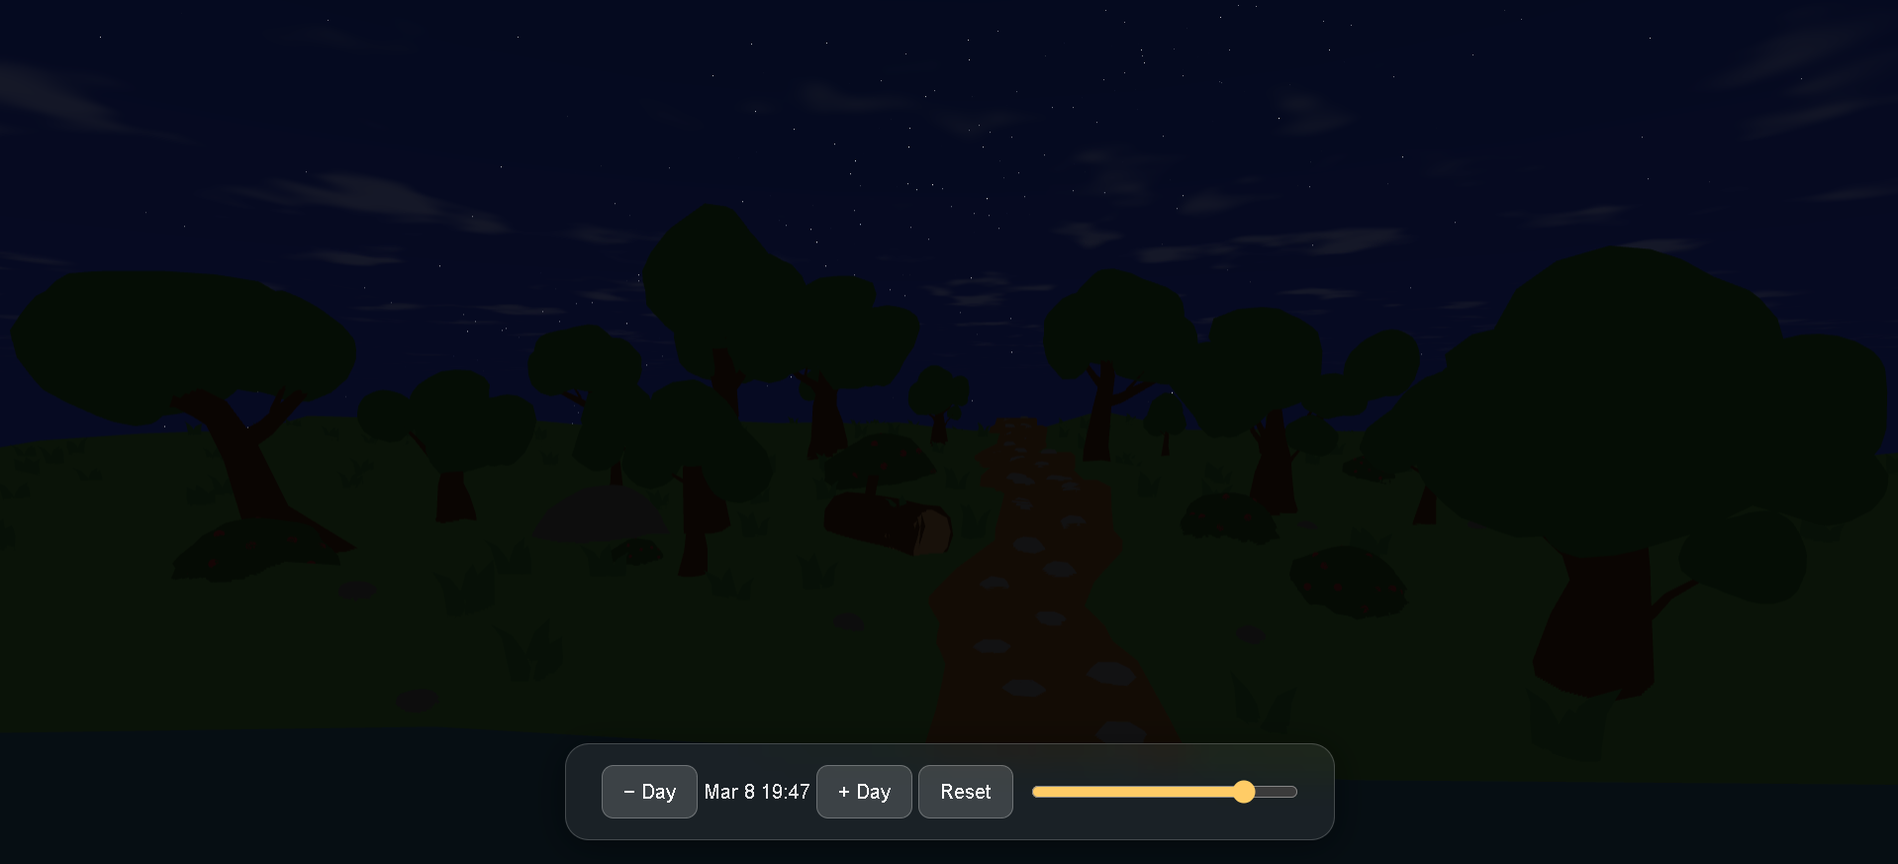
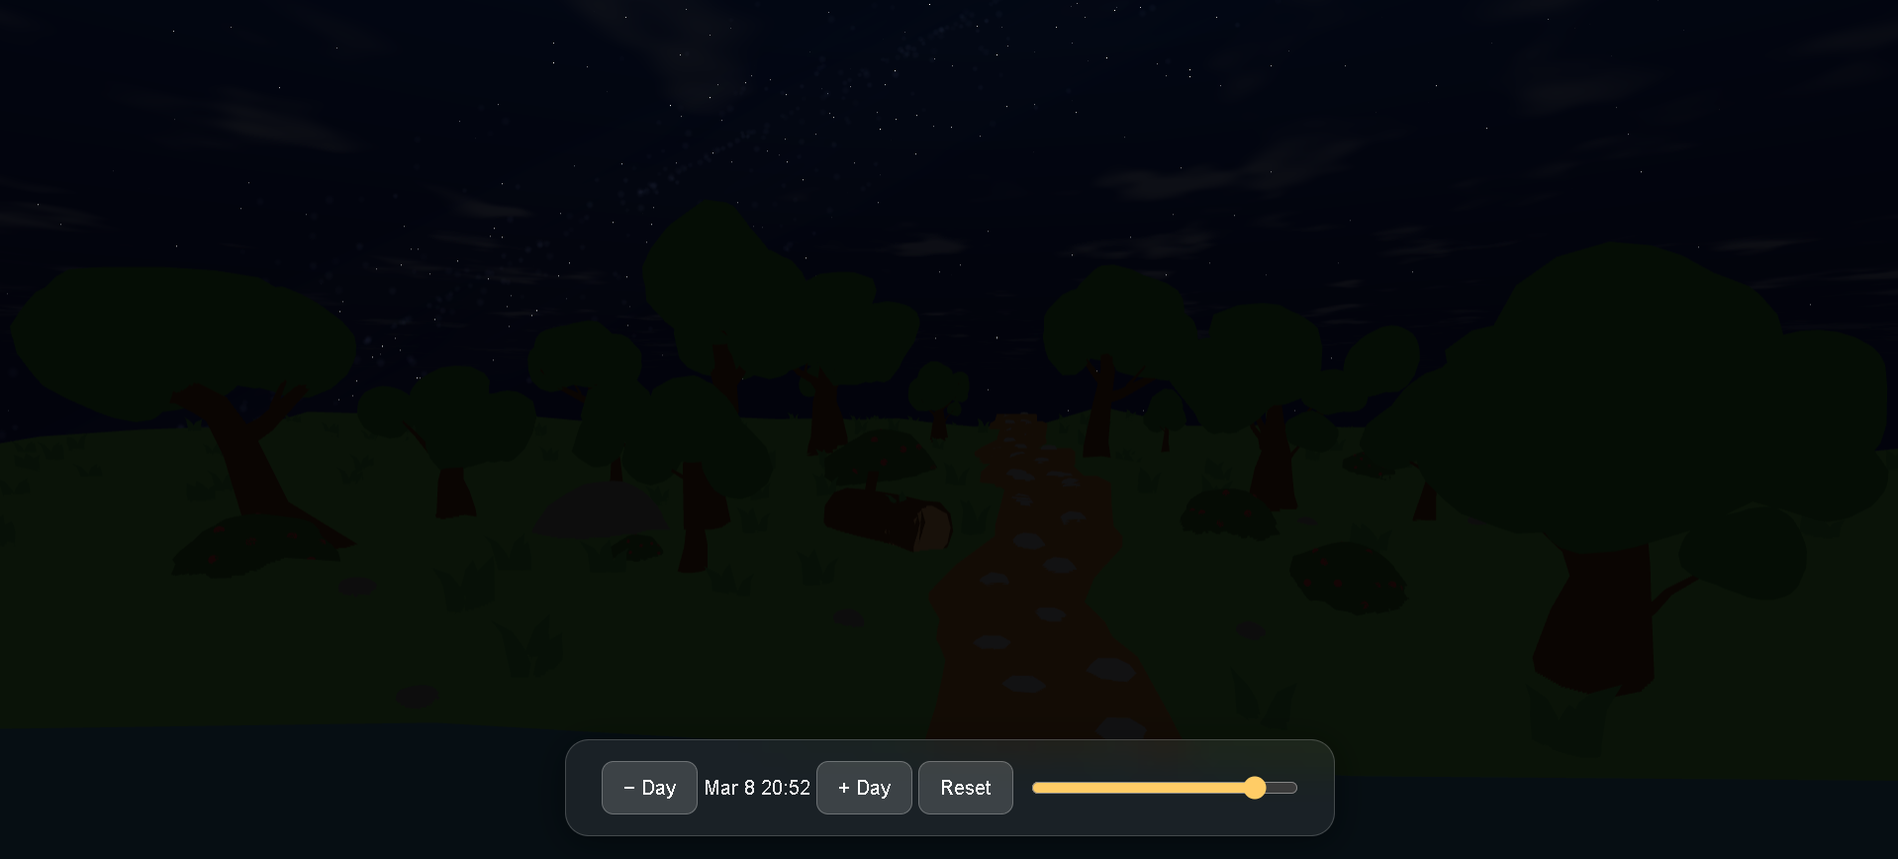
Link nebula visibility to sky darkness, update night screenshot, update README

diff --git a/script.js b/script.js
@@ -154,6 +154,7 @@ const skyDomeMat = new THREE.ShaderMaterial({
   `
 });
 const skyDome = new THREE.Mesh(skyDomeGeo, skyDomeMat);
+skyDome.renderOrder = 0;
 scene.add(skyDome);
 
 // Sky background colour constants — blended each frame based on sun altitude
@@ -355,38 +356,55 @@ const starMaterial = new THREE.ShaderMaterial({
 });
 
 // ── Milky Way dust / nebula layer ─────────────────────────────────────────────
-// 600 large soft blobs spread around the full galactic band. Blobs near the
-// galactic-core longitude (CORE_THETA) are slightly brighter, simulating the
-// denser central bulge without clustering positions.
+// 2200 overlapping soft blobs spread around the full galactic band. Per-particle
+// size variation breaks up uniformity so the band looks like natural cloud
+// structure rather than a grid of identical dots.
 const dustPositions  = [];
 const dustOpacities  = [];
+const dustSizes      = [];
 
-for (let i = 0; i < 600; i++) {
-  const theta = Math.random() * Math.PI * 2;
-  const bandY = (Math.random() - 0.5) * starDistance * 0.28;
-  const r     = Math.sqrt(Math.max(0, starDistance * starDistance - bandY * bandY));
-  dustPositions.push(r * Math.cos(theta), bandY, r * Math.sin(theta));
+for (let i = 0; i < 2200; i++) {
+  // phi: full azimuth — particles wrap all the way around the sky dome
+  const phi = Math.random() * Math.PI * 2;
+  // elev: elevation angle from the galactic plane.
+  // Cubic falloff (t^3) concentrates >90% of particles within ±0.05 rad of
+  // the plane, with a long but sparse tail out to ±0.15 rad — forming a thin
+  // bright core with soft diffuse edges, not a uniform cloud.
+  const t    = (Math.random() - 0.5) * 2.0;  // uniform [-1, 1]
+  const elev = t * t * t * 0.15;              // cubic → max ±0.15 rad (≈±8.6°)
+
+  dustPositions.push(
+    starDistance * Math.cos(elev) * Math.cos(phi),
+    starDistance * Math.sin(elev),
+    starDistance * Math.cos(elev) * Math.sin(phi)
+  );
   // Smooth opacity boost near the galactic core longitude
-  const dTheta    = Math.abs(((theta - CORE_THETA + Math.PI * 3) % (Math.PI * 2)) - Math.PI);
-  const corePulse = Math.max(0, Math.cos(Math.min(dTheta / 1.2, Math.PI * 0.5)));
-  dustOpacities.push(0.09 + Math.random() * 0.05 + corePulse * 0.10);
+  const dPhi     = Math.abs(((phi - CORE_THETA + Math.PI * 3) % (Math.PI * 2)) - Math.PI);
+  const corePulse = Math.max(0, Math.cos(Math.min(dPhi / 1.2, Math.PI * 0.5)));
+  const variation = 0.5 + Math.random() * 0.5;  // 0.5–1.0× brightness modulation
+  dustOpacities.push((0.02 + Math.random() * 0.02 + corePulse * 0.01) * variation);
+  // Size variation: 0.7–1.3× base so blobs differ visually
+  dustSizes.push(1800.0 * (0.7 + Math.random() * 0.6));
 }
 
 const dustGeometry = new THREE.BufferGeometry();
 dustGeometry.setAttribute('position',    new THREE.Float32BufferAttribute(dustPositions, 3));
 dustGeometry.setAttribute('dustOpacity', new THREE.Float32BufferAttribute(dustOpacities, 1));
+dustGeometry.setAttribute('dustSize',    new THREE.Float32BufferAttribute(dustSizes,     1));
 
 const dustMaterial = new THREE.ShaderMaterial({
   transparent: true,
   depthWrite: false,
+  blending: THREE.AdditiveBlending,
   uniforms: { starVisibility: { value: 0 } },
   vertexShader: `
     attribute float dustOpacity;
+    attribute float dustSize;
     varying float vDustOpacity;
     void main() {
       vDustOpacity = dustOpacity;
       vec4 mvPosition = modelViewMatrix * vec4(position, 1.0);
-      gl_PointSize = 160.0 * (300.0 / -mvPosition.z);
+      gl_PointSize = dustSize * (300.0 / -mvPosition.z);
       gl_Position = projectionMatrix * mvPosition;
     }
   `,
@@ -394,8 +412,8 @@ const dustMaterial = new THREE.ShaderMaterial({
     uniform float starVisibility;
     varying float vDustOpacity;
     void main() {
-      float d = length(gl_PointCoord - vec2(0.5)) * 2.0;
-      float alpha = (1.0 - smoothstep(0.0, 1.0, d)) * vDustOpacity * starVisibility;
+      float d = length(gl_PointCoord - vec2(0.5));
+      float alpha = smoothstep(0.55, 0.10, d) * vDustOpacity * starVisibility;
       gl_FragColor = vec4(0.70, 0.76, 1.0, alpha);
     }
   `
@@ -403,6 +421,74 @@ const dustMaterial = new THREE.ShaderMaterial({
 
 const starGroup = new THREE.Group();
 starGroup.rotation.z = 0.6; // tilt so Milky Way band runs diagonally across sky
+starGroup.renderOrder = 1;
+
+// ── Galactic haze mesh ────────────────────────────────────────────────────────
+// A large sphere slightly inside the star sphere whose fragment shader generates
+// FBM noise concentrated around the equatorial plane (y ≈ 0 in local space).
+// This provides the continuous soft-glow background that individual particles
+// cannot produce on their own. Additive blending keeps it purely additive.
+const hazeMaterial = new THREE.ShaderMaterial({
+  transparent: true,
+  depthWrite: false,
+  side: THREE.BackSide,
+  blending: THREE.AdditiveBlending,
+  uniforms: { starVisibility: { value: 0 } },
+  vertexShader: `
+    varying vec3 vLocalPos;
+    void main() {
+      vLocalPos   = position;
+      gl_Position = projectionMatrix * modelViewMatrix * vec4(position, 1.0);
+    }
+  `,
+  fragmentShader: `
+    uniform float starVisibility;
+    varying vec3 vLocalPos;
+
+    // Cheap 2-D hash for FBM noise
+    float hash(vec2 p) {
+      p = fract(p * vec2(127.1, 311.7));
+      p += dot(p, p + 17.5);
+      return fract(p.x * p.y);
+    }
+    float noise(vec2 p) {
+      vec2 i = floor(p);
+      vec2 f = fract(p);
+      vec2 u = f * f * (3.0 - 2.0 * f);
+      return mix(mix(hash(i),          hash(i + vec2(1,0)), u.x),
+                 mix(hash(i + vec2(0,1)), hash(i + vec2(1,1)), u.x), u.y);
+    }
+    float fbm(vec2 p) {
+      float v = 0.0, a = 0.5;
+      for (int i = 0; i < 4; i++) {
+        v += a * noise(p);
+        p *= 2.1;
+        a *= 0.5;
+      }
+      return v;
+    }
+
+    void main() {
+      vec3 dir = normalize(vLocalPos);
+      // Galactic latitude — dir.y is elevation from the equatorial plane
+      float lat  = abs(dir.y);
+      // Sharp Gaussian band: only visible within ±0.18 rad of plane
+      float band = exp(-lat * lat * 120.0);
+      // FBM noise on azimuth × patchy vertical offset
+      vec2 uv    = vec2(atan(dir.z, dir.x) * 0.8, dir.y * 6.0);
+      float haze = fbm(uv * 2.5) * fbm(uv * 0.9 + 1.7);
+      float alpha = band * haze * 0.045 * starVisibility;
+      gl_FragColor = vec4(0.68, 0.74, 1.0, alpha);
+    }
+  `
+});
+const hazeSphere = new THREE.Mesh(
+  new THREE.SphereGeometry(starDistance * 0.97, 48, 24),
+  hazeMaterial
+);
+starGroup.add(hazeSphere);              // rendered before dust and star points
+// ─────────────────────────────────────────────────────────────────────────────
+
 starGroup.add(new THREE.Points(dustGeometry,  dustMaterial));  // dust behind stars
 starGroup.add(new THREE.Points(starGeometry,  starMaterial));
 scene.add(starGroup);
@@ -518,8 +604,10 @@ function updateSunPosition(lat, lon, date = new Date()) {
 
   // Stars fade in during twilight (-6° to -14°)
   const starVis = THREE.MathUtils.clamp((-altitude - 0.1) / 0.15, 0, 1);
+  const nebulaVisibility = Math.pow(starVis, 1.5);
   starMaterial.uniforms.starVisibility.value = starVis;
-  dustMaterial.uniforms.starVisibility.value = starVis;
+  dustMaterial.uniforms.starVisibility.value  = nebulaVisibility;
+  hazeMaterial.uniforms.starVisibility.value  = nebulaVisibility;
 
   // Star rotation tied to simulation hours; cloud offset also driven by sim hours
   const hours = date.getHours() + date.getMinutes() / 60 + date.getSeconds() / 3600;

diff --git a/README.md b/README.md
@@ -1,12 +1,22 @@
 # Lowpoly Time Sync Environment
 
-A real-time low-poly 3D environment built with **Three.js** where sky lighting, sun and moon positions, moon phases, stars, and procedural clouds all synchronize with the user's actual geographic location and time of day.
+A real-time low-poly 3D environment built with **Three.js** where sky lighting, sun and moon positions, moon phases, stars, the Milky Way, and procedural clouds all synchronize with the user's actual geographic location and time of day.
 
 ---
 
 ## What This Project Does
 
-This website recreates the sky as it actually appears at your real-world location and time of day. It uses astronomy calculations to find the true position of the sun and moon in the sky, then renders lighting that transitions naturally between dawn, noon, dusk, and night. The moon displays its correct phase based on the current date. A time slider at the bottom of the screen lets you scrub to any hour of the day, jump forward or backward by a day, or reset to the current real-world time.
+This website recreates the sky as it actually appears at your real-world location and time of day. It uses astronomy calculations to find the true position of the sun and moon in the sky, then renders lighting that transitions naturally between dawn, noon, dusk, and night. The moon displays its correct phase based on the current date. A full three-layer Milky Way (star points, dust blobs, and a galactic haze sphere) fades in during twilight synchronized to sky darkness. A time slider at the bottom of the screen lets you scrub to any hour of the day, jump forward or backward by a day, or reset to the current real-world time.
+
+---
+
+## Key Highlights
+
+- Real astronomical sun and moon positioning
+- Real-time sky lighting synced to user location
+- Procedural Milky Way with stars, dust, and haze layers
+- GLSL shaders for moon phases, sky gradients, and clouds
+- Time-scrubbing UI to explore different times of day
 
 ---
 
@@ -43,8 +53,8 @@ Load the page and the scene immediately reflects your current time and location:
 
 - The sun rises and sets along the correct solar path for the user's location and date
 - The sky transitions through day, sunset, twilight, and night palettes
-- Stars appear at dusk, including a denser Milky Way band across the sky
-- The moon renders with its correct current phase
+- Stars and a three-layer Milky Way appear during twilight, fading in smoothly with sky darkness
+- The moon renders with its correct current phase and fades at the horizon
 - Procedural clouds drift slowly across the sky dome
 
 Use the time slider at the bottom to scrub through any hour of the day, or step through days to watch moon phases and seasonal sun angles change.
@@ -56,15 +66,19 @@ Use the time slider at the bottom to scrub through any hour of the day, or step 
 | Feature | Description |
 |---|---|
 | **Real sun positioning** | SunCalc computes altitude and azimuth from GPS coordinates and the current date/time |
-| **Real moon positioning** | Moon positioned using real astronomical position data from SunCalc, ensuring correct relative placement in the sky |
-| **Moon phases** | Per-pixel Lambertian shader driven by the real sun–moon angle; crescent, gibbous, and full moon all render correctly |
-| **Dynamic sky colours** | Four-stage altitude blend: day → sunset → twilight → night |
-| **Sky gradient dome** | Inverted sphere with a zenith/horizon GLSL gradient |
-| **Procedural clouds** | 3-octave FBM value noise rendered in the sky dome fragment shader; drift tied to simulation time |
-| **Star field** | 18 000 candidates on a sphere; Gaussian band density bias (~4× denser along galactic plane), per-star colour tinting (blue/purple in band, warm near galactic core), twinkling via ShaderMaterial, plus a 600-point soft dust/nebula layer |
+| **Real moon positioning** | Moon positioned using real astronomical data from SunCalc; fades smoothly at the horizon |
+| **Moon phases** | Per-pixel Lambertian shader driven by the real sun–moon angle; earthshine fills the dark limb; crescent, gibbous, and full moon all render correctly |
+| **Dynamic sky colours** | Four-stage altitude blend: day → sunset → twilight → night, plus a warm horizon glow at sunrise/sunset |
+| **Sky gradient dome** | Inverted sphere (radius 75 000) with a per-frame zenith/horizon GLSL gradient |
+| **Procedural clouds** | 3-octave FBM value noise rendered in the sky dome fragment shader; drift rate tied to simulation hours so the slider visibly moves clouds |
+| **Star field** | Up to ~18 000 stars placed via rejection sampling on a sphere (radius 80 000); Gaussian band density bias (~4× denser along galactic plane); per-star colour tinting (blue/purple in band, warm near galactic core); per-star twinkling via time-driven sinusoid |
+| **Milky Way — dust layer** | 2 200 soft additive blobs with cubic elevation falloff (±8.6°); opacity boosted near galactic-core longitude; per-blob size variation breaks up uniformity |
+| **Milky Way — haze sphere** | Inverted sphere at 97 % of star radius; 4-octave FBM fragment shader concentrated on the galactic equator; provides the continuous soft glow individual particles cannot produce |
+| **Nebula / sky-darkness link** | `nebulaVisibility = pow(starVisibility, 1.5)` — dust and haze fade in more gradually than stars, matching natural sky behaviour |
+| **Adaptive FOV** | Camera field of view widens automatically on portrait / narrow viewports to preserve the scene framing |
 | **Geolocation** | Optional browser geolocation; falls back to Bangalore (12.97° N, 77.59° E) |
-| **Time slider UI** | Glassmorphism panel; slider, ±Day buttons, and Reset |
-| **Auto time advance** | Simulation clock advances 1 minute per real-world minute when the slider is idle |
+| **Time slider UI** | Glassmorphism panel; slider, ±Day buttons, and Reset; responsive layout for mobile |
+| **Auto time advance** | Simulation clock advances 1 minute per real-world minute when the slider is idle; pauses for 10 s after any interaction |
 
 ---
 
@@ -82,11 +96,11 @@ y = sin(altitude)                   // height
 z = cos(altitude) * cos(azimuth)   // north/south
 ```
 
-The sun and moon spheres are placed 50 000 units from the camera along their respective direction vectors, keeping them at a fixed angular size regardless of scene scale.
+The sun and moon spheres are placed 50 000 units from the camera along their respective direction vectors, keeping them at a fixed angular size regardless of scene scale. The moon fades smoothly over the ±0.05 rad window at the horizon using a `uOpacity` uniform.
 
 ### Sky Gradient Shader
 
-An inverted sphere (`THREE.BackSide`) with a custom `ShaderMaterial`. The vertex shader computes `vWorldDir = normalize(modelMatrix * position)`. The fragment shader blends `horizonColor` and `zenithColor` uniforms using `smoothstep(0.0, 0.6, vWorldDir.y)`, producing a natural atmospheric gradient. Both uniforms are updated every frame from the 4-stage sky colour system.
+An inverted sphere (`THREE.BackSide`, radius 75 000) with a custom `ShaderMaterial`. The vertex shader computes `vWorldDir = normalize(modelMatrix * position)`. The fragment shader blends `horizonColor` and `zenithColor` uniforms using `smoothstep(0.0, 0.6, vWorldDir.y)`, producing a natural atmospheric gradient. Both uniforms are updated every frame from the 4-stage sky colour system.
 
 ### 4-Stage Sky Colour System
 
@@ -97,7 +111,7 @@ altitude > -0.3     →  lerp to twilight purple
 altitude ≤ -0.3     →  lerp to deep night navy
 ```
 
-A horizon glow (warm amber) is blended in during the ±0.1 rad window around sunrise/sunset.
+A warm amber horizon glow is blended in during the ±0.1 rad window around sunrise/sunset.
 
 ### Procedural Cloud Shader
 
@@ -105,10 +119,11 @@ Clouds live entirely inside the sky dome fragment shader — no additional geome
 
 ```glsl
 vec2 uv = vWorldDir.xz / (vWorldDir.y + 0.05);
-uv += vec2(time * 0.03, time * 0.015);
+uv *= 2.0;
+uv += vec2(time * 0.3, time * 0.15);
 ```
 
-The `time` uniform is set from `hours * 0.05`, so clouds drift when the slider moves. Cloud colour is white in daylight, warm during sunset, and suppressed at night via a luminance check on `zenithColor`.
+The `time` uniform is `cloudSimOffset + realTime`, where `cloudSimOffset = hours * 5.0`. This means each hour on the slider produces a clearly visible cloud shift. Cloud colour is white in daylight, warm during sunset, and suppressed at night via a luminance check on `zenithColor`.
 
 ### Moon Phase Shader
 
@@ -119,25 +134,53 @@ float brightness = smoothstep(-0.05, 0.25, dot(N, L));
 vec3 finalColor  = moonColor * (brightness + 0.12); // 0.12 = earthshine
 ```
 
-This produces correct crescent, quarter, gibbous, and full moon appearances as the sun–moon angle changes across the synodic month.
+This produces correct crescent, quarter, gibbous, and full moon appearances as the sun–moon angle changes across the synodic month. `SunCalc.getMoonIllumination()` drives the moon glow sprite opacity.
 
 ### Star Field
 
-18 000 candidate positions are distributed uniformly on a sphere. Acceptance probability is biased by a Gaussian function of equatorial distance (σ ≈ 28 % of sphere radius), producing a clearly visible Milky Way band spanning the full sky arc at ~4× background density. Per-star attributes — size, brightness, twinkle phase, and RGB colour tint — are stored as `BufferGeometry` custom attributes and consumed in a `ShaderMaterial` points renderer. Stars in the band shift toward blue/purple; a smooth brightness gradient along the band simulates the brighter galactic-centre region without clustering. A second `Points` layer of 600 large soft-glow blobs forms a diffuse dust/nebula overlay along the same band. All stars and dust fade in during the `-0.1` to `-0.25` rad twilight window.
+Up to 18 000 candidate positions are distributed uniformly on a sphere (radius 80 000) using rejection sampling. Acceptance probability is biased by a Gaussian function of equatorial distance (σ ≈ 28 % of sphere radius), producing a clearly visible Milky Way band at ~4× background density. Per-star attributes — size, brightness, twinkle phase offset, and RGB colour tint — are stored as `BufferGeometry` custom attributes. Stars in the band shift toward blue/purple; a smooth cosine brightness gradient centered on `CORE_THETA = 1.1` simulates the brighter galactic-centre region without clustering stars into a blob.
+
+### Three-Layer Milky Way
+
+The Milky Way is rendered by three additive layers inside a single `starGroup` (tilted `rotation.z = 0.6` rad, rotated in `y` each frame by simulation hour):
+
+1. **Star points** — the `Points` geometry described above; `starVisibility` uniform.
+2. **Dust blobs** — 2 200 `Points` with large `gl_PointSize`; cubic elevation falloff concentrates >90 % of blobs within ±0.05 rad of the galactic plane; opacity peaks near CORE_THETA; uses `nebulaVisibility` uniform.
+3. **Haze sphere** — inverted `SphereGeometry` at `starDistance * 0.97`; fragment shader applies a sharp Gaussian band (`exp(-lat² × 120)`) multiplied by a 4-octave FBM product, giving patchy continuous glow; uses `nebulaVisibility` uniform.
+
+### Nebula / Sky-Darkness Link
+
+All three layers share a `starVisibility` factor derived from sun altitude:
+
+```js
+const starVis       = clamp((-altitude - 0.1) / 0.15, 0, 1);  // 0 at -6°, 1 at -14°
+const nebulaVisibility = Math.pow(starVis, 1.5);
+```
+
+Stars use `starVis` directly. Dust and haze use `nebulaVisibility`, which is always ≤ `starVis`, so the nebula fades in more gradually during early twilight and reaches full brightness at the same moment stars do.
+
+### Lighting
+
+| Light | Type | Purpose |
+|---|---|---|
+| `dirLight` | `DirectionalLight` (white) | Sun; shadow frustum ±20 000 units; intensity × daylight factor |
+| `moonLight` | `DirectionalLight` (0xaaccff) | Night fill; intensity from `sin(moonAltitude) × 0.25` |
+| `ambientLight` | `AmbientLight` (white, 0.15 base) | Prevents fully black shadows |
+| `skyAmbient` | `AmbientLight` (0x87a8c8) | Sky-scattered fill; scales with daylight factor |
 
 ### Time Synchronization
 
-`setInterval` fires every 60 seconds and advances `simulationTime` by one minute, then calls `refreshSun()`. A `userControllingTime` flag suppresses this while the slider is being dragged, and resets automatically 10 seconds after the last interaction.
+`setInterval` fires every 60 seconds and advances `simulationTime` by one minute, then calls `refreshSun()`. A `userControllingTime` flag suppresses auto-advance while the slider is being dragged, and clears automatically 10 seconds after the last interaction.
 
 ---
 
 ## Technologies
 
-- [Three.js r160](https://threejs.org/) — 3D rendering, shaders, shadows
+- [Three.js r160](https://threejs.org/) — 3D rendering, custom shaders, shadow maps
 - [SunCalc 1.9.0](https://github.com/mourner/suncalc) — astronomical sun/moon calculations
 - [GLTFLoader](https://threejs.org/docs/#examples/en/loaders/GLTFLoader) — low-poly scene model
 - Vanilla ES modules — no build step required
-- [Blender](https://www.blender.org/) — all environment assets were modeled and textured manually in Blender and exported as GLB files for efficient rendering on the web
+- [Blender](https://www.blender.org/) — all environment assets modeled, textured, and exported as GLB
 
 ---
 
@@ -153,10 +196,10 @@ git clone https://github.com/pun1th01/lowpoly-time-sync-environment.git
 cd lowpoly-time-sync-environment
 
 # Start a local server
-python -m http.server 8080
+python -m http.server 8000
 
 # Open in browser
-http://localhost:8080
+http://localhost:8000
 ```
 
 > **Why a server?** Three.js ES modules and GLB loading require an HTTP context; opening `index.html` directly via `file://` will not work.
@@ -180,8 +223,8 @@ http://localhost:8080
 ```
 lowpoly-time-sync-environment/
 │
-├── index.html          # Entry point — imports, SunCalc script tag
-├── script.js           # All Three.js scene logic
+├── index.html              # Entry point — ES module imports, SunCalc script tag
+├── script.js               # All Three.js scene logic
 │
 ├── assets/
 │   ├── models/
@@ -193,13 +236,31 @@ lowpoly-time-sync-environment/
 └── .gitignore
 ```
 
+### script.js section map
+
+| Section | Lines (approx.) | Contents |
+|---|---|---|
+| Scene / Renderer / Camera | top | `PerspectiveCamera` with adaptive FOV, `WebGLRenderer` |
+| Global State | — | `simulationTime`, `currentLat/Lon`, `cloudSimOffset` |
+| Lighting | — | Sun dir light, moon fill light, ambient lights |
+| Sky System | — | Sky dome shader (gradient + FBM clouds) |
+| Celestial Bodies | — | Sun/moon spheres, glow sprites, phase shader |
+| Star System | — | Star geometry, dust blobs, galactic haze sphere |
+| Sun / Moon Positioning | — | `updateSunPosition()` — sky colour, star visibility, lighting |
+| Model Loading | — | `loadEnvironmentModel()` via GLTFLoader |
+| Geolocation | — | `initGeolocation()` with Bangalore fallback |
+| Time Control UI | — | `buildTimeUI()` — glassmorphism panel, auto-advance |
+| Animation Loop | — | `animate()` — dome tracking, uniform updates |
+| Window Resize | — | Adaptive FOV + renderer resize |
+| Startup | — | `loadEnvironmentModel`, `initGeolocation`, `buildTimeUI`, `animate` |
+
 ---
 
 ## Future Improvements
 
-- [x] Mobile support — responsive layout and touch-friendly slider controls for phones and tablets
+- [x] Mobile support — responsive layout and touch-friendly slider controls
 - [ ] Physically-based atmosphere — Rayleigh/Mie scattering for more accurate sunset colours
-- [ ] Visual improvements — enhanced cloud detail, softer star glow, and smoother horizon blending
+- [ ] Visual improvements — enhanced cloud detail, softer star glow, smoother horizon blending
 - [ ] Visual fixes — reduce sky banding at night, improve moon glow intensity scaling at different phases
 
 ---
